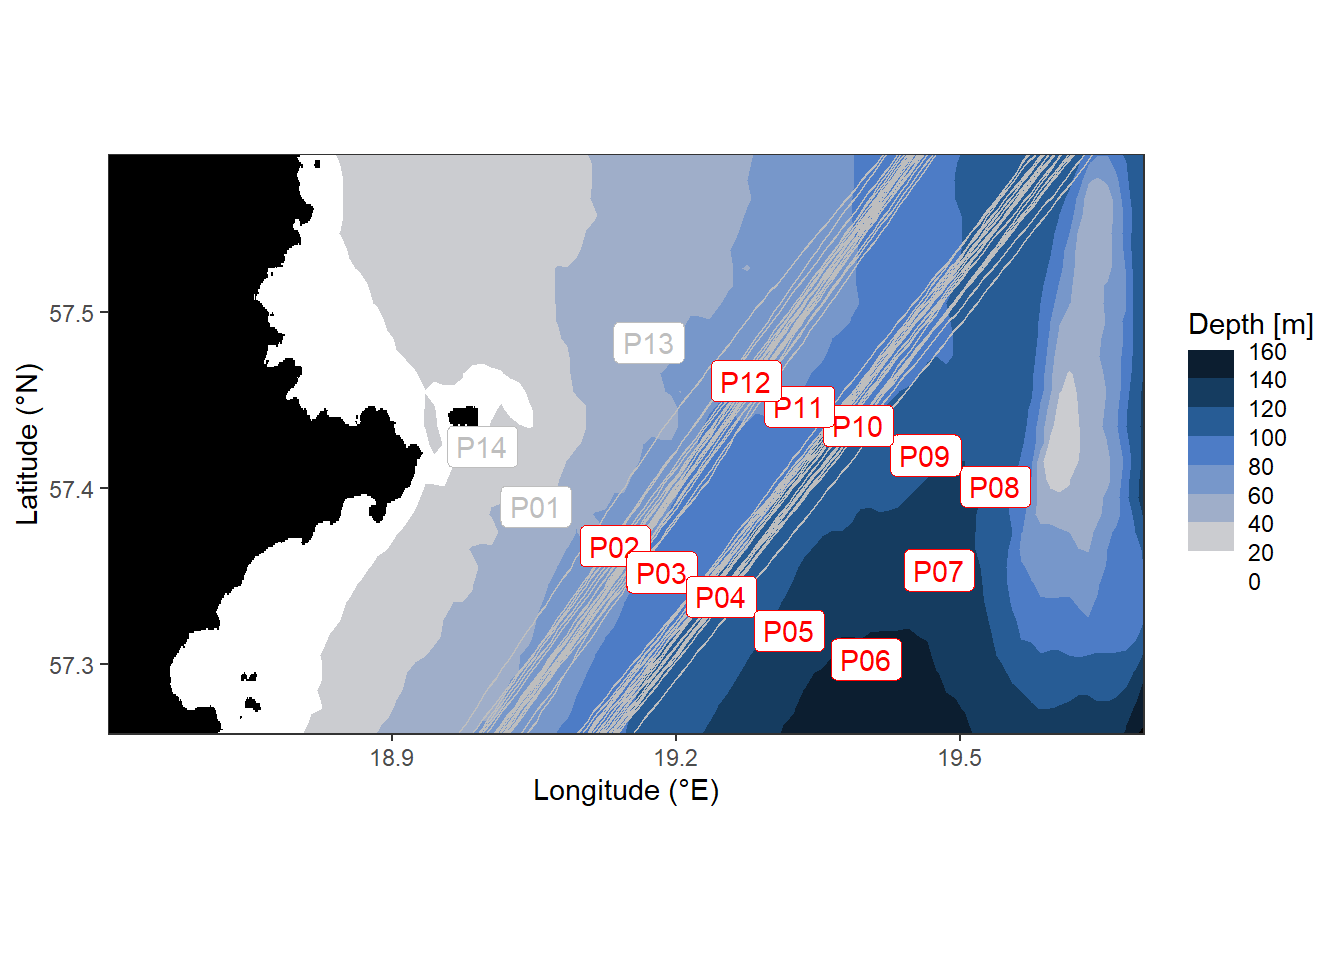
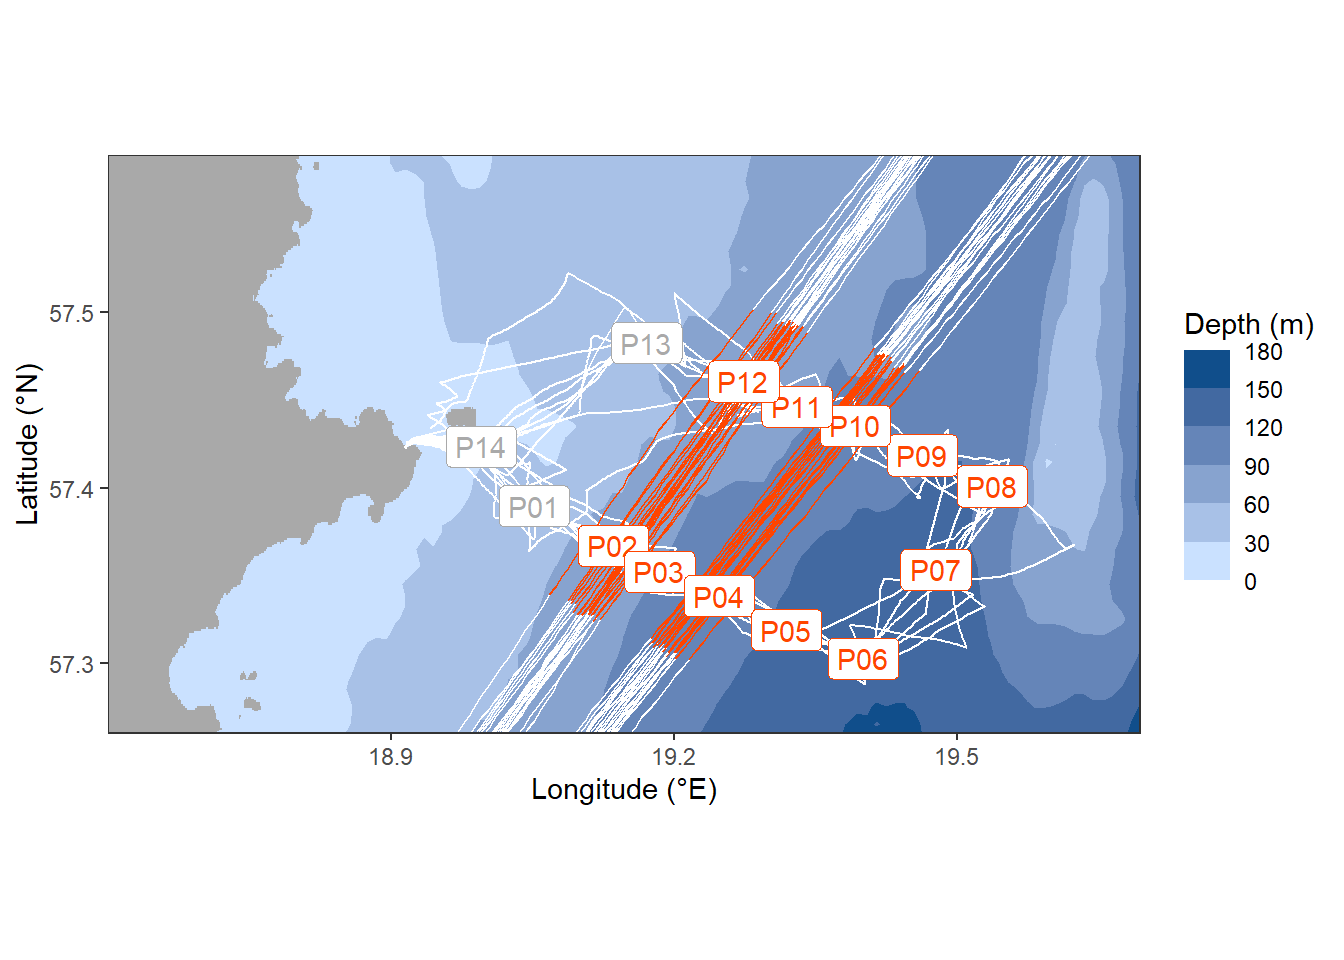
Build site.

diff --git a/docs/CT_dynamics.html b/docs/CT_dynamics.html
@@ -442,7 +442,7 @@ div.tocify {
 
 <h1 class="title toc-ignore">CT dynamics</h1>
 <h4 class="author">Jens Daniel Müller</h4>
-<h4 class="date">07 May, 2020</h4>
+<h4 class="date">08 May, 2020</h4>
 
 </div>
 
@@ -467,7 +467,7 @@ div.tocify {
 <div class="tab-content">
 <div id="summary" class="tab-pane fade in active">
 <p>
-<strong>Last updated:</strong> 2020-05-07
+<strong>Last updated:</strong> 2020-05-08
 </p>
 <p>
 <strong>Checks:</strong> <span class="glyphicon glyphicon-ok text-success" aria-hidden="true"></span> 7 <span class="glyphicon glyphicon-exclamation-sign text-danger" aria-hidden="true"></span> 0
@@ -558,16 +558,16 @@ This reproducible <a href="http://rmarkdown.rstudio.com">R Markdown</a> analysis
 <div class="panel panel-default">
 <div class="panel-heading">
 <p class="panel-title">
-<a data-toggle="collapse" data-parent="#workflowr-checks" href="#strongRepositoryversionstrongahrefhttpsgithubcomjensdanielmuellerBloomSailtreead98da2e804c51385cff9e762473449c2b56a42btargetblankad98da2a"> <span class="glyphicon glyphicon-ok text-success" aria-hidden="true"></span> <strong>Repository version:</strong> <a href="https://github.com/jens-daniel-mueller/BloomSail/tree/ad98da2e804c51385cff9e762473449c2b56a42b" target="_blank">ad98da2</a> </a>
+<a data-toggle="collapse" data-parent="#workflowr-checks" href="#strongRepositoryversionstrongahrefhttpsgithubcomjensdanielmuellerBloomSailtree7fe598ee1d31181b47aa4f007d28e6804eef1263targetblank7fe598ea"> <span class="glyphicon glyphicon-ok text-success" aria-hidden="true"></span> <strong>Repository version:</strong> <a href="https://github.com/jens-daniel-mueller/BloomSail/tree/7fe598ee1d31181b47aa4f007d28e6804eef1263" target="_blank">7fe598e</a> </a>
 </p>
 </div>
[2 lines of base64/hex data omitted]
 <div class="panel-body">
 <p>
 Great! You are using Git for version control. Tracking code development and connecting the code version to the results is critical for reproducibility.
 </p>
 <p>
-The results in this page were generated with repository version <a href="https://github.com/jens-daniel-mueller/BloomSail/tree/ad98da2e804c51385cff9e762473449c2b56a42b" target="_blank">ad98da2</a>. See the <em>Past versions</em> tab to see a history of the changes made to the R Markdown and HTML files.
+The results in this page were generated with repository version <a href="https://github.com/jens-daniel-mueller/BloomSail/tree/7fe598ee1d31181b47aa4f007d28e6804eef1263" target="_blank">7fe598e</a>. See the <em>Past versions</em> tab to see a history of the changes made to the R Markdown and HTML files.
 </p>
 <p>
 Note that you need to be careful to ensure that all relevant files for the analysis have been committed to Git prior to generating the results (you can use <code>wflow_publish</code> or <code>wflow_git_commit</code>). workflowr only checks the R Markdown file, but you know if there are other scripts or data files that it depends on. Below is the status of the Git repository when the results were generated:
@@ -631,6 +631,40 @@ Message
 </tr>
 </thead>
 <tbody>
+<tr>
+<td>
+Rmd
+</td>
+<td>
+<a href="https://github.com/jens-daniel-mueller/BloomSail/blob/7fe598ee1d31181b47aa4f007d28e6804eef1263/analysis/CT_dynamics.Rmd" target="_blank">7fe598e</a>
+</td>
+<td>
+jens-daniel-mueller
+</td>
+<td>
+2020-05-08
+</td>
+<td>
+map update and finnmaid subsetting in area
+</td>
+</tr>
+<tr>
+<td>
+html
+</td>
+<td>
+<a href="https://rawcdn.githack.com/jens-daniel-mueller/BloomSail/dd3bd89b54033f33ba6064c450ab34fb6f030f43/docs/CT_dynamics.html" target="_blank">dd3bd89</a>
+</td>
+<td>
+jens-daniel-mueller
+</td>
+<td>
+2020-05-07
+</td>
+<td>
+Build site.
+</td>
+</tr>
 <tr>
 <td>
 Rmd
@@ -2669,7 +2703,8 @@ library(metR)
 library(scico)
 library(lubridate)
 library(zoo)
-library(tibbletime)</code></pre>
+library(tibbletime)
+library(sp) # check points in polygon</code></pre>
 <div id="sensor-data" class="section level1">
 <h1><span class="header-section-number">1</span> Sensor data</h1>
 <p>Profile data are prepared by:</p>
@@ -2766,7 +2801,7 @@ tm_profiles &lt;- tm_profiles %&gt;%
   filter(phase %in% c(&quot;down&quot;, &quot;up&quot;))
 
 
-tm_profiles_highres &lt;- tm_profiles
+#tm_profiles_highres &lt;- tm_profiles
 
 # grid observation to 1m depth intervals
 tm_profiles &lt;- tm_profiles %&gt;% 
@@ -2825,13 +2860,35 @@ tm_profiles &lt;- inner_join(cruise_dates, tm_profiles)</code></pre>
 </div>
 <div id="station-map" class="section level2">
 <h2><span class="header-section-number">1.2</span> Station map</h2>
-<pre class="r"><code>lat_lo &lt;- 57.25
+<pre class="r"><code># fm data
+poly_lon &lt;- c(18.9, 19.5, 19.5, 18.9)
+poly_lat &lt;- c(57.4, 57.2, 57.45, 57.61)
+
+# plot area
+lat_lo &lt;- 57.25
 lat_hi &lt;- 57.6
 
 lon_lo &lt;- 18.6
-lon_hi &lt;- 19.7
+lon_hi &lt;- 19.7</code></pre>
+<pre class="r"><code>fm &lt;-
+  read_csv(here::here(&quot;Data/_summarized_data_files&quot;,
+                       &quot;fm.csv&quot;)) %&gt;% 
+  filter(lat &lt;= lat_hi, lat &gt;= lat_lo, lon &gt;= lon_lo)
 
-map &lt;- read_csv(here::here(&quot;data/Maps&quot;,&quot;Bathymetry_Gotland_east_small.csv&quot;)) %&gt;% 
+fm &lt;- fm %&gt;% 
+  mutate(Area = point.in.polygon(point.x = lon,
+                                 point.y = lat,
+                                 pol.x = poly_lon,
+                                 pol.y = poly_lat),
+         Area = as.character(Area),
+         Area = if_else(Area == &quot;1&quot;, &quot;utilized&quot;, &quot;sampled&quot;))
+
+fm %&gt;% 
+  filter(Area == &quot;utilized&quot;) %&gt;% 
+  select(-Area) %&gt;% 
+  write_csv(here::here(&quot;Data/_summarized_data_files&quot;,
+                       &quot;fm_bloomsail.csv&quot;))</code></pre>
+<pre class="r"><code>map &lt;- read_csv(here::here(&quot;data/Maps&quot;,&quot;Bathymetry_Gotland_east_small.csv&quot;)) %&gt;% 
   filter(lat &lt; lat_hi, lat &gt; lat_lo,
          lon &lt; lon_hi, lon &gt; lon_lo)
 
@@ -2848,31 +2905,29 @@ map_low_res &lt;- map %&gt;%
   mutate(lat = as.numeric(as.character(lat)),
          lon = as.numeric(as.character(lon)))
 
-
-fm &lt;-
-  read_csv(here::here(&quot;Data/_summarized_data_files&quot;,
-                       &quot;fm.csv&quot;)) %&gt;% 
-  filter(lat &lt;= lat_hi, lat &gt;= lat_lo, lon &gt;= lon_lo)
+tm_track &lt;- tm %&gt;% 
+  arrange(date_time) %&gt;% 
+  slice(which(row_number() %% 50 == 1))
 
 ggplot()+
   geom_contour_fill(data = map_low_res,
                     aes(x=lon, y=lat, z=-elev),
                     na.fill = TRUE,
-                    breaks = seq(0,300,20))+
+                    breaks = seq(0,300,30))+
   geom_raster(data=map %&gt;% filter(is.na(elev)),
-              aes(lon, lat), fill=&quot;black&quot;)+
-  geom_line(data = fm, aes(lon, lat, group=ID), col=&quot;grey&quot;)+
-  #geom_line(data = fm %&gt;% filter(Area == &quot;BS&quot;), aes(Lon, Lat, group=ID), col=&quot;red&quot;)+
+              aes(lon, lat), fill=&quot;darkgrey&quot;)+
+  geom_path(data = tm_track, aes(lon, lat, group=ID, col=&quot;sampled&quot;))+
+  geom_path(data = fm, aes(lon, lat, group=ID, col=Area))+
   geom_label(data = stations %&gt;% filter(!(station %in% c(&quot;P14&quot;, &quot;P13&quot;, &quot;P01&quot;))),
-             aes(lon, lat, label=station), col=&quot;red&quot;)+
+             aes(lon, lat, label=station, col=&quot;utilized&quot;))+
   geom_label(data = stations %&gt;% filter(station %in% c(&quot;P14&quot;, &quot;P13&quot;, &quot;P01&quot;)),
-             aes(lon, lat, label=station), col=&quot;grey&quot;)+
+             aes(lon, lat, label=station, col=&quot;sampled_station&quot;))+
   coord_quickmap(expand = 0, ylim = c(lat_lo+0.01, lat_hi-0.01))+
   labs(x=&quot;Longitude (°E)&quot;, y=&quot;Latitude (°N)&quot;)+
-  scale_fill_scico(palette = &quot;oslo&quot;, na.value = &quot;grey&quot;,
-                   name=&quot;Depth [m]&quot;, direction = -1,
-                   breaks = seq(0,160,20),
-                   guide = &quot;colorstrip&quot;)</code></pre>
+  scale_fill_gradient(low = &quot;lightsteelblue1&quot;, high = &quot;dodgerblue4&quot;,
+                   name=&quot;Depth (m)&quot;, breaks = seq(0,180,30),
+                   guide = &quot;colorstrip&quot;)+
+  scale_color_manual(values = c(&quot;white&quot;, &quot;darkgrey&quot;, &quot;orangered&quot;), guide=FALSE)</code></pre>
 <div class="figure" style="text-align: center">
 <img src="figure/CT_dynamics.Rmd/map-1.png" alt="Location of stations sampled between the east coast of Gotland and Gotland deep." width="672" />
 <p class="caption">
@@ -2880,9 +2935,12 @@ Location of stations sampled between the east coast of Gotland and Gotland deep.
 </p>
 </div>
 <pre class="r"><code>ggsave(here::here(&quot;output/Plots/Figures_publication/article&quot;, &quot;station_map.pdf&quot;),
-       width = 180, height = 150, dpi = 300, units = &quot;mm&quot;)
+       width = 220, height = 150, dpi = 300, units = &quot;mm&quot;)
 
-rm(map, map_low_res, lat_hi, lat_lo, lon_hi, lon_lo, fm)</code></pre>
+rm(map, map_low_res,
+   lat_hi, lat_lo, lon_hi, lon_lo, 
+   poly_lat, poly_lon,
+   fm, tm_track)</code></pre>
 </div>
 <div id="data-coverage" class="section level2">
 <h2><span class="header-section-number">1.3</span> Data coverage</h2>
@@ -4064,7 +4122,7 @@ p_pCO2_atm + p_wind +
 <li><p>dCO<sub>2</sub>: µmol kg-1</p></li>
 <li><p>wind speed U: m s-1</p></li>
 <li><p>coeff for k calculation (eg 0.251 in W14): cm hr-1 (m s-1)-2</p></li>
-<li><p>gas transfer velocities k: cm hr-1 (= 60<em>60</em>100 m s-1)</p></li>
+<li><p>gas transfer velocities k: cm hr-1 (= 60 x 60 x 100 m s-1)</p></li>
 <li><p>air sea CO<sub>2</sub> flux F: mol m–2 d–1</p></li>
 <li><p>conversion between the unit of k * dCO2 and F requires a factor of 10-5 * 24</p></li>
 </ul>
@@ -4086,10 +4144,10 @@ tm_og &lt;- tm_og %&gt;%
 # calculate flux F [mol m–2 d–1]
 
 tm_og &lt;- tm_og %&gt;% 
-  mutate(flux = k*dCO2*1e-5*24,
-         flux_daily = rolling_mean(flux))
+  mutate(flux = k*dCO2*1e-5*24)
+#         flux_daily = rolling_mean(flux))
 
-rm(Sc_W14, rolling_mean)</code></pre>
+rm(Sc_W14)</code></pre>
 </div>
 <div id="daily-fluxes" class="section level3">
 <h3><span class="header-section-number">6.2.5</span> Daily fluxes</h3>
@@ -4180,8 +4238,10 @@ rm(tm_og_flux, iCT_10, tm_og)
 # linear interpolation of cumulative changes to frequency of the flux estimates estimates 
 iCT_10_flux &lt;- iCT_10_flux %&gt;% 
   mutate(CT_i_cum = approxfun(date_time, CT_i_cum)(date_time),
-         flux_cum = approxfun(date_time, flux_cum)(date_time),
-         CT_i_flux_cum = CT_i_cum + flux_cum)
+         flux_cum = approxfun(date_time, flux_cum)(date_time)) %&gt;% 
+    fill(flux_cum) %&gt;% 
+  mutate(CT_i_flux_cum = CT_i_cum + flux_cum)
+
 
 # calculate cumulative fluxes inbetween cruises 
 iCT_10_flux_diff &lt;- iCT_10_flux %&gt;% 
@@ -4301,12 +4361,12 @@ attached base packages:
 [1] stats     graphics  grDevices utils     datasets  methods   base     
 
 other attached packages:
- [1] tibbletime_0.1.3 zoo_1.8-7        lubridate_1.7.4  scico_1.1.0     
- [5] metR_0.6.0       marelac_2.1.10   shape_1.4.4      seacarb_3.2.13  
- [9] oce_1.2-0        gsw_1.0-5        testthat_2.3.2   patchwork_1.0.0 
-[13] forcats_0.5.0    stringr_1.4.0    dplyr_0.8.5      purrr_0.3.3     
-[17] readr_1.3.1      tidyr_1.0.2      tibble_3.0.0     ggplot2_3.3.0   
-[21] tidyverse_1.3.0  workflowr_1.6.1 
+ [1] sp_1.4-1         tibbletime_0.1.3 zoo_1.8-7        lubridate_1.7.4 
+ [5] scico_1.1.0      metR_0.6.0       marelac_2.1.10   shape_1.4.4     
+ [9] seacarb_3.2.13   oce_1.2-0        gsw_1.0-5        testthat_2.3.2  
+[13] patchwork_1.0.0  forcats_0.5.0    stringr_1.4.0    dplyr_0.8.5     
+[17] purrr_0.3.3      readr_1.3.1      tidyr_1.0.2      tibble_3.0.0    
+[21] ggplot2_3.3.0    tidyverse_1.3.0  workflowr_1.6.1 
 
 loaded via a namespace (and not attached):
  [1] Rcpp_1.0.4         whisker_0.4        knitr_1.28         xml2_1.3.0        
@@ -4316,16 +4376,16 @@ loaded via a namespace (and not attached):
 [17] xfun_0.12          dbplyr_1.4.2       modelr_0.1.6       withr_2.1.2       
 [21] git2r_0.26.1       ellipsis_0.3.0     htmltools_0.4.0    assertthat_0.2.1  
 [25] rprojroot_1.3-2    digest_0.6.25      lifecycle_0.2.0    haven_2.2.0       
-[29] rmarkdown_2.1      sp_1.4-1           compiler_3.6.3     cellranger_1.1.0  
-[33] pillar_1.4.3       scales_1.1.0       backports_1.1.5    generics_0.0.2    
-[37] jsonlite_1.6.1     httpuv_1.5.2       pkgconfig_2.0.3    rstudioapi_0.11   
-[41] munsell_0.5.0      plyr_1.8.6         highr_0.8          httr_1.4.1        
-[45] tools_3.6.3        grid_3.6.3         nlme_3.1-145       data.table_1.12.8 
-[49] gtable_0.3.0       checkmate_2.0.0    DBI_1.1.0          cli_2.0.2         
-[53] readxl_1.3.1       yaml_2.2.1         crayon_1.3.4       farver_2.0.3      
-[57] RColorBrewer_1.1-2 later_1.0.0        promises_1.1.0     fs_1.4.0          
-[61] vctrs_0.2.4        memoise_1.1.0      glue_1.3.2         evaluate_0.14     
-[65] labeling_0.3       reprex_0.3.0       stringi_1.4.6     </code></pre>
+[29] rmarkdown_2.1      compiler_3.6.3     cellranger_1.1.0   pillar_1.4.3      
+[33] scales_1.1.0       backports_1.1.5    generics_0.0.2     jsonlite_1.6.1    
+[37] httpuv_1.5.2       pkgconfig_2.0.3    rstudioapi_0.11    munsell_0.5.0     
+[41] plyr_1.8.6         highr_0.8          httr_1.4.1         tools_3.6.3       
+[45] grid_3.6.3         nlme_3.1-145       data.table_1.12.8  gtable_0.3.0      
+[49] checkmate_2.0.0    DBI_1.1.0          cli_2.0.2          readxl_1.3.1      
+[53] yaml_2.2.1         crayon_1.3.4       farver_2.0.3       RColorBrewer_1.1-2
+[57] later_1.0.0        promises_1.1.0     fs_1.4.0           vctrs_0.2.4       
+[61] memoise_1.1.0      glue_1.3.2         evaluate_0.14      labeling_0.3      
+[65] reprex_0.3.0       stringi_1.4.6     </code></pre>
 </div>
 </div>
 
